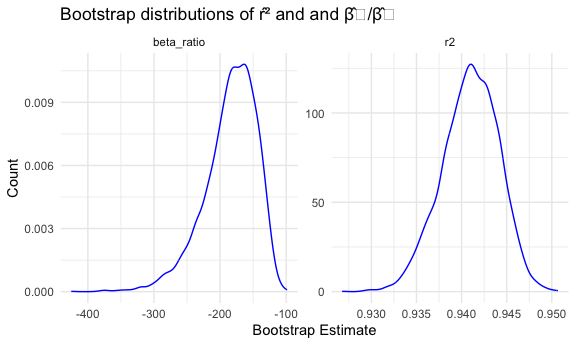
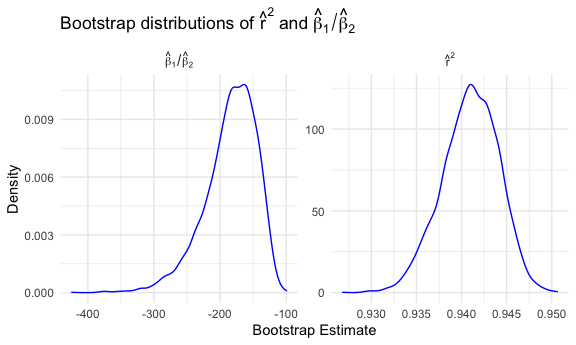
add descriptions and update formatting for bootstrap

diff --git a/p8105_hw6_mas2514.md b/p8105_hw6_mas2514.md
@@ -18,15 +18,6 @@ which represents the investigative status of the case.
 homicide_df <- read_csv("data/homicide-data.csv")
 ```
 
-    ## Rows: 52179 Columns: 12
-    ## ── Column specification ────────────────────────────────────────────────────────
-    ## Delimiter: ","
-    ## chr (9): uid, victim_last, victim_first, victim_race, victim_age, victim_sex...
-    ## dbl (3): reported_date, lat, lon
-    ## 
-    ## ℹ Use `spec()` to retrieve the full column specification for this data.
-    ## ℹ Specify the column types or set `show_col_types = FALSE` to quiet this message.
-
 The code below creates a `clean_homicide_df` dataset, which includes a
 city-level summary of the homicide data. The `city` and `state`
 variables are combined into a single`city_state` variable. A binary
@@ -49,11 +40,6 @@ clean_homicide_df <-
     victim_race %in% c("White", "Black")
   ) 
 ```
-
-    ## Warning: There was 1 warning in `mutate()`.
-    ## ℹ In argument: `victim_age = as.numeric(victim_age)`.
-    ## Caused by warning:
-    ## ! NAs introduced by coercion
 
 The code below fits a logistic regression to the Baltimore, MD data with
 solved vs unsolved as the outcome and victim age, sex and race as
@@ -113,17 +99,7 @@ city_glm_results <-
     CI_upper = conf.high,
     p.value
   )
-```
 
-    ## Warning: There were 43 warnings in `mutate()`.
-    ## The first warning was:
-    ## ℹ In argument: `results = map(fits, broom::tidy, conf.int = TRUE, exponentiate
-    ##   = TRUE)`.
-    ## Caused by warning:
-    ## ! glm.fit: fitted probabilities numerically 0 or 1 occurred
-    ## ℹ Run `dplyr::last_dplyr_warnings()` to see the 42 remaining warnings.
-
-``` r
 city_glm_results |> 
   knitr::kable(digits = 3)
 ```
@@ -205,11 +181,23 @@ city_glm_results |>
 
 ## Problem 2
 
-Load the central park weather data.
+The code below imports the Central Park weather data from
+p8105.datasets. This dataset contains daily meteorological observations
+recorded in New York City, including minimum and maximum temperature
+(`tmin`, `tmax`) and total daily precipitation (`prcp`).
 
 ``` r
 data("weather_df")
 ```
+
+The code below generates 5000 bootstrap samples from the original
+dataset and fits the linear regression model
+$tmax = \beta_0 + \beta_1\, tmin + \beta_2\, prcp + \varepsilon$ to
+extract the estimated quantities $\widehat{r}^2$ and
+$\widehat{\beta}_1 / \widehat{\beta}_2$. For each bootstrap sample, the
+model is re-fit, and the two quantities of interest are extracted using
+`broom::glance()` for $\widehat{r}^2$ and `broom::tidy()` for
+$\widehat{\beta}_1 / \widehat{\beta}_2$.
 
 ``` r
 set.seed(1)
@@ -245,6 +233,15 @@ boot_ratio <-
   select(.id, beta_ratio)
 ```
 
+The plots below show the bootstrap sampling distributions for both
+estimated quantities. The distribution of $\widehat{r}^2$ is tightly
+concentrated, reflecting the strong linear relationship between minimum
+and maximum temperature. In contrast, the bootstrap distribution of the
+coefficient ratio $\widehat{\beta}_1 / \widehat{\beta}_2$ is much more
+variable and noticeably left-skewed. This increased variability and
+skewness are consistent with the relatively small and unstable estimated
+effect of precipitation in the regression model.
+
 ``` r
 boot_summary <- 
   boot_rsquared |> 
@@ -256,17 +253,28 @@ boot_summary |>
     names_to = "quantity", 
     values_to = "value", 
   ) |> 
+  mutate(
+    quantity = recode(
+      quantity, 
+      "r2" = "hat(r)^2",
+      "beta_ratio" = "hat(beta)[1] / hat(beta)[2]")
+  ) |> 
   ggplot(aes(x = value)) +
-  geom_density(color = "blue") + facet_wrap(~ quantity, scales = "free") +
-  theme_minimal() +
+  geom_density(color = "blue") + facet_wrap(~ quantity, scales = "free", labeller = label_parsed) +
   labs(
-    title = "Bootstrap distributions of r̂² and and β̂₁/β̂₂",
+    title = expression(
+      "Bootstrap distributions of " * hat(r)^2 * " and " * hat(beta)[1] / hat(beta)[2]
+    ),
     x = "Bootstrap Estimate", 
-    y = "Count"
+    y = "Density"
   )
 ```
 
 <img src="p8105_hw6_mas2514_files/figure-gfm/unnamed-chunk-8-1.png" width="90%" />
+
+The code below identifies the 2.5% and 97.5% quantiles of each bootstrap
+distribution to construct 95% confidence intervals for the estimated
+quantities.
 
 ``` r
 boot_summary |> 
